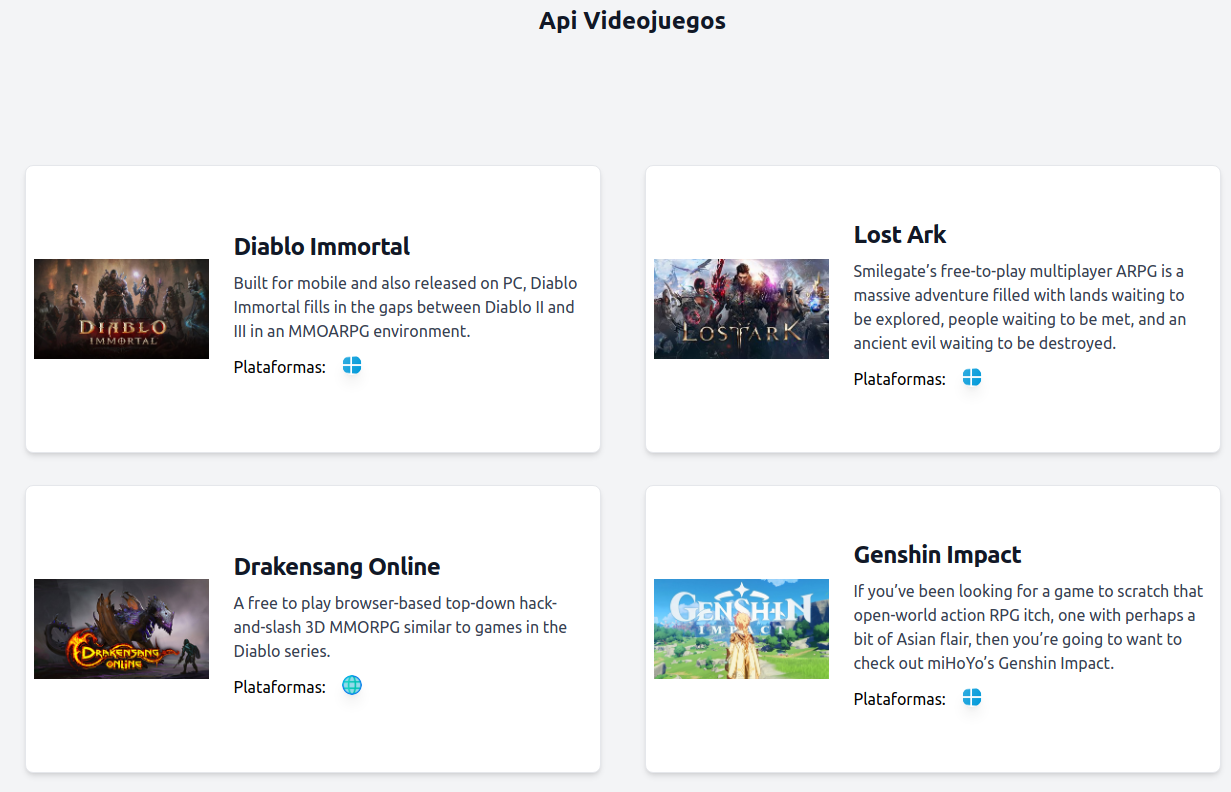
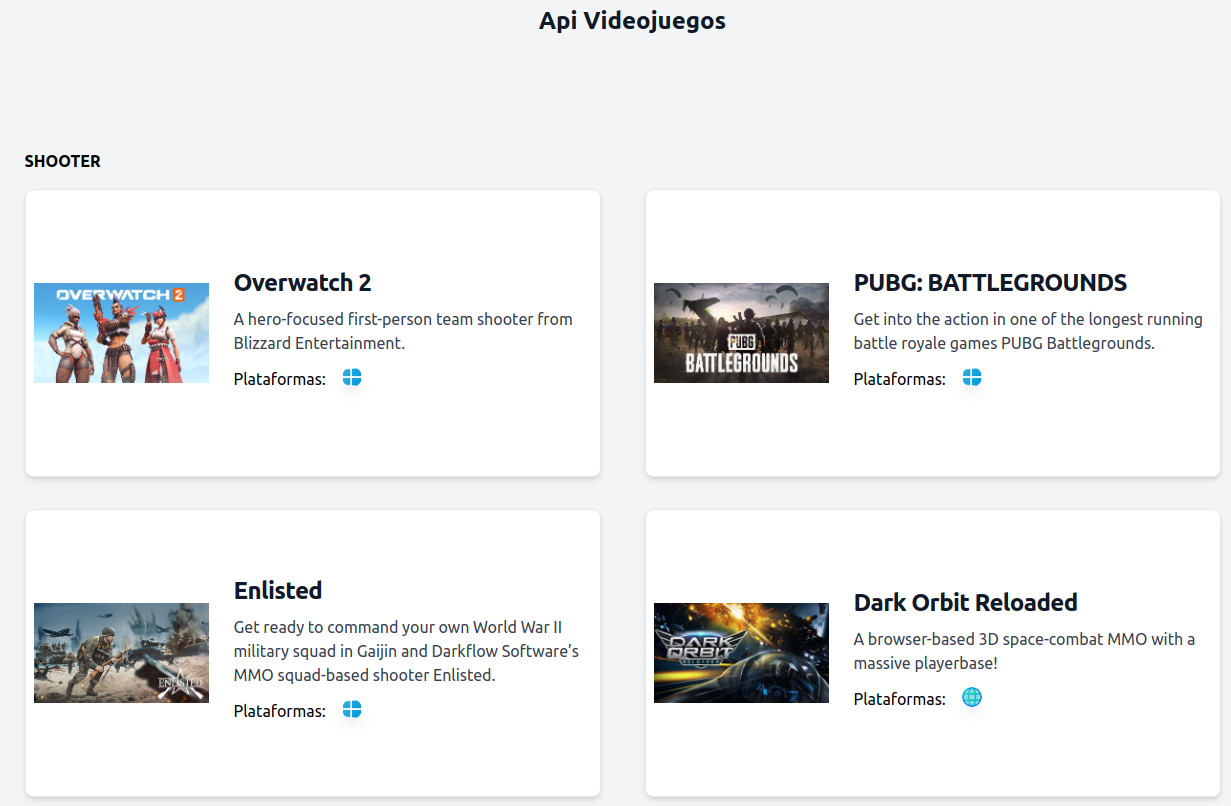
Ajuste en capturas de pantalla

diff --git a/frontend-games/src/app/modules/juegos/lista/lista.component.html b/frontend-games/src/app/modules/juegos/lista/lista.component.html
@@ -1,3 +1,4 @@
+<p class="mr-6 font-bold">{{categoria}}</p>
 <div class="lg:grid lg:grid-cols-2 lg:gap-x-6 lg:space-y-0">
     <div class="group relative py-4" *ngFor="let juego of juegos">
         <div class="flex flex-col items-center bg-white border rounded-lg shadow-md md:flex-row md:max-w-xl hover:bg-gray-100 dark:border-gray-700 dark:bg-gray-800 dark:hover:bg-gray-700 m:aspect-w-2 sm:aspect-h-1 sm:h-72 ">

diff --git a/frontend-games/src/app/modules/juegos/lista/lista.component.ts b/frontend-games/src/app/modules/juegos/lista/lista.component.ts
@@ -14,7 +14,7 @@ import { PlatformPipe } from 'src/app/pipes/platform.pipe';
 })
 export class ListaComponent implements OnInit {
 
-  private categoria: string | undefined ;
+  public categoria: string | undefined ;
   public juegos: any = [];
 
   constructor(
